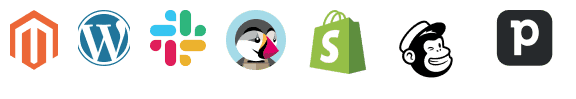
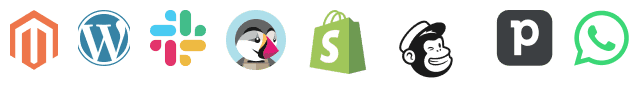
feat: add label new and add whatsapp

diff --git a/assets/styles/layouts/Header.scss b/assets/styles/layouts/Header.scss
@@ -515,13 +515,14 @@
 	}
 
 	$iconHeader: (
-		"wordpress": "-20px 0",
-		"prestashop": "-67px 0",
-		"magento": "1px 0",
-		"shopify": "-94px 0",
-		"mailchimp": "-120px 0",
-		"pipedrive": "-151px 0",
-		"slack": "-43px 0",
+		"whatsapp": "-152px 2px",
+		"wordpress": "-16px 2px",
+		"prestashop": "-234px 2px",
+		"magento": "4px 2px",
+		"shopify": "-81px 1px",
+		"mailchimp": "-105px 0px",
+		"pipedrive": "-132px 2px",
+		"slack": "-36px 2px",
 	);
 
 	@each $icon, $pos in $iconHeader {

diff --git a/assets/styles/layouts/_ComparePlansNew.scss b/assets/styles/layouts/_ComparePlansNew.scss
@@ -320,18 +320,6 @@
 					fill: $light-gray-icon;
 				}
 
-				span.badge__new {
-					color: $white;
-					font-size: 0.75rem;
-					font-weight: 700;
-					line-height: 1.5;
-					text-transform: uppercase;
-					padding: 0.25em 0.5625em;
-					border-radius: 6.25em;
-					margin-left: 0.5em;
-					background-color: #ff492b;
-				}
-
 				&__text {
 					left: -50%;
 				}

diff --git a/assets/styles/layouts/_PricingPrograms.scss b/assets/styles/layouts/_PricingPrograms.scss
@@ -350,18 +350,6 @@
 			li {
 				display: flex;
 				align-items: center;
-
-				span.badge__new {
-					color: $white;
-					font-size: 0.75rem;
-					font-weight: 700;
-					line-height: 1.5;
-					text-transform: uppercase;
-					padding: 0.125em 0.5625em;
-					border-radius: 6.25em;
-					margin-left: 0.5em;
-					background-color: #ff492b;
-				}
 			}
 		}
 	}

diff --git a/assets/styles/elements/_BadgeNew.scss b/assets/styles/elements/_BadgeNew.scss
@@ -1,0 +1,14 @@
+/* stylelint-disable selector-class-pattern, no-descending-specificity */
+@use "../common/variables" as v;
+
+span.badge__new {
+	color: v.$white;
+	font-size: 0.75rem;
+	font-weight: 700;
+	line-height: 1.5;
+	text-transform: uppercase;
+	padding: 0.125em 0.5625em;
+	border-radius: 6.25em;
+	margin-left: 0.5em;
+	background-color: #ff492b;
+}

diff --git a/assets/styles/Elementor.scss b/assets/styles/Elementor.scss
@@ -17,6 +17,7 @@
 @forward "elements/Button";
 @forward "elements/Form";
 @forward "elements/PostTag";
+@forward "elements/BadgeNew";
 @forward "elements/Pagination";
 @forward "elements/YoutubeLoader";
 @forward "elements/Tooltip";
